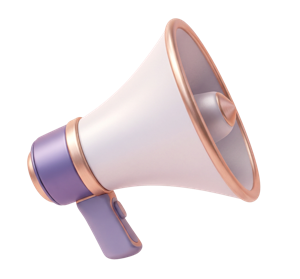
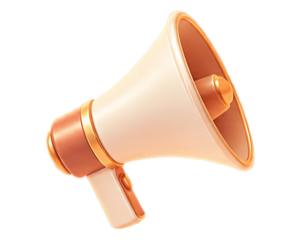
feat(user): 홈 바로가기 카드 그림을 피그마 ver.2 의 주황 계열로 바꾼다

Changed region(s): [[0.09, 0.0288, 0.87, 0.9506]]

diff --git a/apps/user/features/home/nav/HomeNav.tsx b/apps/user/features/home/nav/HomeNav.tsx
@@ -12,35 +12,35 @@ const ITEMS: HomeNavItem[] = [
     title: '축제 일정표',
     description: '축제 일정과 공연 시간을 확인해보세요!',
     image: timetable,
-    imageBox: 'top-0 right-[11px] h-[76px] w-[91px]',
+    imageBox: 'top-0 right-[15px] h-[76px] w-[83px]',
   },
   {
     href: '/map',
     title: '캠퍼스 지도',
     description: '다양한 부스와 편의시설 위치를 찾아보세요!',
     image: map,
-    imageBox: 'top-[3px] right-[9.5px] h-[70px] w-[92.5px]',
+    imageBox: 'top-0 right-[14px] h-[76px] w-[86px]',
   },
   {
     href: '/notices',
     title: '공지사항',
     description: '축제 관련 주요 소식을 알려드립니다.',
     image: notices,
-    imageBox: 'top-1/2 right-[13.5px] h-[72px] w-[77.5px] -translate-y-1/2',
+    imageBox: 'top-0 right-[5.3px] h-[76px] w-[93.7px]',
   },
   {
     href: '/lost-items',
     title: '분실물 찾기',
     description: '축제가 끝나면 분실물이 업로드됩니다.',
     image: lostItems,
-    imageBox: 'top-1/2 right-[17px] h-[72px] w-[81px] -translate-y-1/2',
+    imageBox: 'top-0 right-[19px] h-[76px] w-[74px]',
   },
   {
     href: '/goods',
     title: '퀸쿠아트리아 굿즈',
     description: '2026 퀸쿠아트리아 굿즈를 만나보세요!',
     image: goods,
-    imageBox: 'top-1/2 right-[13.75px] h-[73px] w-[90.25px] -translate-y-1/2',
+    imageBox: 'top-0 right-[13.3px] h-[76px] w-[83.7px]',
   },
 ]
 
